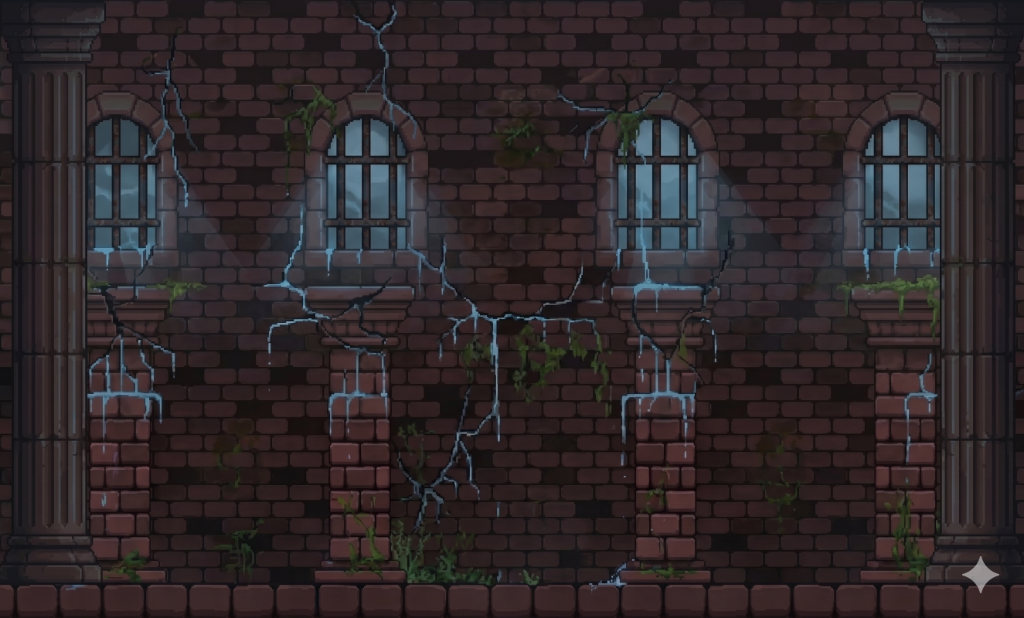
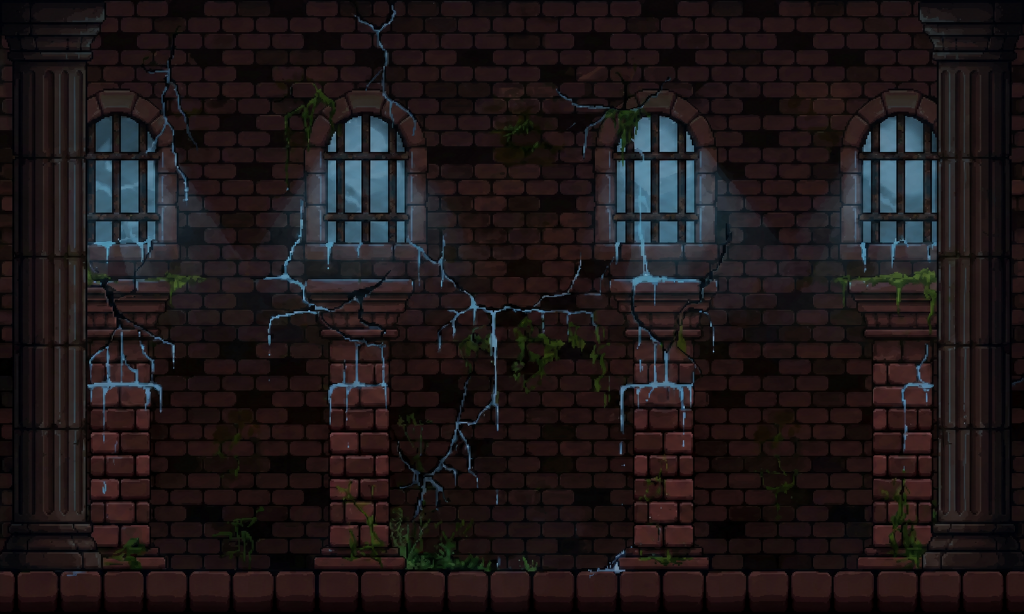
Se agrego movimiento por flechas y se agrando el escenario

diff --git a/src/componentes/GameCanvas.js b/src/componentes/GameCanvas.js
@@ -1,3 +1,4 @@
+// src/componentes/GameCanvas.js
 'use client';
 import { useEffect, useRef, forwardRef, useImperativeHandle } from 'react';
 
@@ -6,12 +7,14 @@ const GameCanvas = forwardRef(({ onGameOver, isPaused }, ref) => {
   
   // ESTADO FÍSICO INTEGRADO DEL JUEGO
   const gameState = useRef({
-    personaje: { x: 200, y: 400, vx: 1.0, vy: 0, size: 20, enSuelo: false },
+    // vx inicializado en 0 porque ahora depende de las flechas
+    personaje: { x: 380, y: 400, vx: 0, vy: 0, size: 20, enSuelo: false },
     plataformas: [],
     camaraY: 0,
     alturaMaxima: 0, 
     gravedad: 0.32,
     fuerzaSalto: -8.2,
+    velocidadCubo: 3.5, // Velocidad manual del cubo al presionar las flechas
     
     // CONTROL DEL DOBLE SALTO
     dobleSaltoDisponible: true,
@@ -23,7 +26,7 @@ const GameCanvas = forwardRef(({ onGameOver, isPaused }, ref) => {
     inmune: false 
   });
 
-  // DISPARADOR DE SALTO COMPATIBLE CON DOBLE SALTO
+  // DISPARADOR DE SALTO COMPATIBLE CON DOBLE SALTO (Solo Voz)
   useImperativeHandle(ref, () => ({
     triggerJump() {
       const state = gameState.current;
@@ -31,7 +34,6 @@ const GameCanvas = forwardRef(({ onGameOver, isPaused }, ref) => {
       
       if (isPaused) return;
 
-      // Primer salto desde una plataforma
       if (p.enSuelo) {
         p.vy = state.fuerzaSalto;
         p.enSuelo = false;
@@ -39,11 +41,10 @@ const GameCanvas = forwardRef(({ onGameOver, isPaused }, ref) => {
         state.puntoMasAltoAlcanzadoY = p.y;
         state.inmune = false;
       } 
-      // Segundo salto en el aire (Doble Salto)
       else if (state.dobleSaltoDisponible) {
         p.vy = state.fuerzaSalto * 0.82; 
         state.dobleSaltoDisponible = false; 
-        state.puntoMasAltoAlcanzadoY = p.y; // Resetea para evitar daño injusto
+        state.puntoMasAltoAlcanzadoY = p.y; 
       }
     }
   }));
@@ -56,6 +57,36 @@ const GameCanvas = forwardRef(({ onGameOver, isPaused }, ref) => {
 
     const imagenFondo = new Image();
     imagenFondo.src = '/imagenes/fondo-torre.png';
+
+    // DETECTORES DE TECLAS PARA MOVIMIENTO HORIZONTAL (FLECHAS)
+    const teclasPresionadas = {};
+    
+    const manejarKeyDown = (e) => {
+      if (isPaused) return;
+      teclasPresionadas[e.code] = true;
+      actualizarVelocidadHorizontal();
+    };
+
+    const manejarKeyUp = (e) => {
+      teclasPresionadas[e.code] = false;
+      actualizarVelocidadHorizontal();
+    };
+
+    const actualizarVelocidadHorizontal = () => {
+      const state = gameState.current;
+      const p = state.personaje;
+      
+      if (teclasPresionadas['ArrowLeft']) {
+        p.vx = -state.velocidadCubo;
+      } else if (teclasPresionadas['ArrowRight']) {
+        p.vx = state.velocidadCubo;
+      } else {
+        p.vx = 0; // Se detiene si no se presiona ninguna flecha
+      }
+    };
+
+    window.addEventListener('keydown', manejarKeyDown);
+    window.addEventListener('keyup', manejarKeyUp);
 
     const generarPlataformasIniciales = () => {
       const lista = [];
@@ -90,12 +121,13 @@ const GameCanvas = forwardRef(({ onGameOver, isPaused }, ref) => {
       }
 
       // ==========================================
-      // A. FISICAS GENERALES
+      // A. FISICAS GENERALES (MOVIMIENTO Y LÍMITES)
       // ==========================================
       p.x += p.vx;
-      if (p.x <= 0 || p.x + p.size >= canvas.width) {
-        p.vx *= -1; 
-      }
+      
+      // Bloqueo de bordes para que no se salga de los 760px del canvas
+      if (p.x < 0) p.x = 0;
+      if (p.x + p.size > canvas.width) p.x = canvas.width - p.size;
 
       p.vy += state.gravedad;
       p.y += p.vy;
@@ -105,7 +137,7 @@ const GameCanvas = forwardRef(({ onGameOver, isPaused }, ref) => {
       }
 
       // ==========================================
-      // B. COLISIONES Y DAÑO POR CAÍDA
+      // B. COLISIONES
       // ==========================================
       p.enSuelo = false;
 
@@ -134,22 +166,18 @@ const GameCanvas = forwardRef(({ onGameOver, isPaused }, ref) => {
       }
 
       // ==========================================
-      // C. CAMARA FLUIDA BIDIRECCIONAL (EFECTO CAÍDA)
+      // C. CAMARA FLUIDA
       // ==========================================
-const limiteSuperior = canvas.height * 0.4; 
+      const limiteSuperior = canvas.height * 0.4; 
       const limiteInferior = canvas.height * 0.7; 
 
       if (p.y < limiteSuperior) {
         const desfase = limiteSuperior - p.y;
         p.y = limiteSuperior;
         
-        // La cámara física se mueve hacia abajo para mostrar lo de arriba
         state.camaraY += desfase;
-        
-        // CORRECCIÓN: Registramos la altura acumulada total de la cámara física
         const alturaActualCalculada = state.camaraY;
         
-        // Solo aumentamos la altura máxima si superamos el punto más alto de esta partida
         if (alturaActualCalculada > state.alturaMaxima) {
           state.alturaMaxima = alturaActualCalculada;
         }
@@ -164,11 +192,8 @@ const limiteSuperior = canvas.height * 0.4;
         const desfase = p.y - limiteInferior;
         p.y = limiteInferior;
         
-        // Al caer, la cámara física retrocede hacia arriba
         state.camaraY -= desfase; 
         state.puntoMasAltoAlcanzadoY -= desfase;
-
-        // YA NO RESTAMOS de state.alturaMaxima aquí, así se queda fija en tu récord
 
         for (let plat of state.plataformas) {
           plat.y -= desfase;
@@ -178,14 +203,12 @@ const limiteSuperior = canvas.height * 0.4;
       // ==========================================
       // D. CONDICIÓN DE GAME OVER
       // ==========================================
-     if (state.vidas <= 0) {
+      if (state.vidas <= 0) {
         cancelAnimationFrame(loopId);
         onGameOver(Math.floor(state.alturaMaxima / 10)); 
         return;
       }
 
-      // CONTROL DE VACÍO REAL: Si el suelo base inicial (plataformas[0]) 
-      // sube más allá de la mitad de la pantalla y el personaje está abajo, es muerte instantánea.
       if (state.plataformas[0] && state.plataformas[0].y < p.y) {
         cancelAnimationFrame(loopId);
         onGameOver(Math.floor(state.alturaMaxima / 10)); 
@@ -193,7 +216,7 @@ const limiteSuperior = canvas.height * 0.4;
       }
 
       // ==========================================
-      // E. RE-RENDERIZADO GRÁFICO
+      // E. RENDERIZADO
       // ==========================================
       ctx.clearRect(0, 0, canvas.width, canvas.height);
 
@@ -211,11 +234,9 @@ const limiteSuperior = canvas.height * 0.4;
         }
       }
 
-      // El personaje parpadea en rojo si es inmune temporal por caída
       ctx.fillStyle = state.inmune && Math.floor(Date.now() / 100) % 2 === 0 ? '#e53e3e' : '#ecc94b'; 
       ctx.fillRect(p.x, p.y, p.size, p.size);
 
-      // MARCADORES DE RENDIMIENTO
       ctx.fillStyle = '#fff';
       ctx.font = 'bold 16px "Courier New", monospace';
       ctx.fillText(`ALTURA: ${Math.floor(state.alturaMaxima / 10)}m`, 20, 30);
@@ -231,15 +252,25 @@ const limiteSuperior = canvas.height * 0.4;
     imagenFondo.onload = () => { loopId = requestAnimationFrame(gameLoop); };
     imagenFondo.onerror = () => { loopId = requestAnimationFrame(gameLoop); };
 
-    return () => cancelAnimationFrame(loopId);
+    return () => {
+      cancelAnimationFrame(loopId);
+      window.removeEventListener('keydown', manejarKeyDown);
+      window.removeEventListener('keyup', manejarKeyUp);
+    };
   }, [onGameOver, isPaused]);
 
   return (
-    <canvas 
-      ref={canvasRef} 
-      width={400} 
+    <canvas
+      ref={canvasRef}
+      width={760} 
       height={600} 
-      style={{ border: '4px solid #2b6cb0', display: 'block', margin: '0 auto', borderRadius: '8px' }} 
+      style={{
+        display: 'block',
+        margin: '0 auto',
+        background: '#1a202c',
+        borderRadius: '8px',
+        border: '2px solid #4a5568'
+      }}
     />
   );
 });

diff --git a/src/app/page.tsx b/src/app/page.tsx
@@ -117,7 +117,7 @@ export default function Home() {
     localStorage.setItem('vt_lista_jugadores', JSON.stringify(nuevaListaFiltrada));
   };
 
-  // 6. GESTIÓN DE SALTOS Y FIN DE JUEGO
+  // 6. GESTIÓN DE SALTOS GENERAL
   const handleJumpTrigger = useCallback(() => {
     if (gameCanvasRef.current && !isPaused) {
       gameCanvasRef.current.triggerJump();
@@ -135,6 +135,7 @@ export default function Home() {
     setIsPaused(false);
   };
 
+  // Escucha la barra espaciadora SOLO si el método de control es 'teclado'
   useEffect(() => {
     const handleKeyDown = (event: KeyboardEvent) => {
       if (isPlaying && !isPaused && controlMethod === 'teclado' && event.code === 'Space') {
@@ -148,10 +149,18 @@ export default function Home() {
 
   return (
     <main style={{ 
-      maxWidth: '600px', margin: '20px auto', padding: '30px 20px', fontFamily: '"Courier New", Courier, monospace', 
+      maxWidth: '800px', 
+      margin: '20px auto', 
+      padding: '30px 20px', 
+      fontFamily: '"Courier New", Courier, monospace', 
       backgroundImage: 'linear-gradient(rgba(0, 0, 0, 0.75), rgba(0, 0, 0, 0.75)), url("/imagenes/fondo-torre.png")',
-      backgroundSize: 'cover', backgroundPosition: 'center', backgroundRepeat: 'no-repeat', color: '#fff',
-      borderRadius: '12px', boxShadow: '0px 0px 25px rgba(43, 108, 176, 0.4)', border: '3px solid #2b6cb0',
+      backgroundSize: 'cover', 
+      backgroundPosition: 'center', 
+      backgroundRepeat: 'no-repeat', 
+      color: '#fff',
+      borderRadius: '12px', 
+      boxShadow: '0px 0px 25px rgba(43, 108, 176, 0.4)', 
+      border: '3px solid #2b6cb0',
       position: 'relative'
     }}>
       
@@ -188,7 +197,7 @@ export default function Home() {
                 value={nuevoNombre}
                 onChange={(e) => setNuevoNombre(e.target.value)}
                 maxLength={12}
-                style={{ flex: 1, padding: '8px', borderRadius: '4px', border: '1px solid #4a5568', background: '#2d3748', color: '#fff', outline: 'none' }}
+                style={{ flex: 1, padding: '8px', borderRadius: '4px', border: '1px solid #4a5568', background: '#2d3748', color: '#fff', outline: '#3182ce' }}
               />
               <button type="submit" style={{ padding: '8px 15px', background: '#3182ce', color: 'white', border: 'none', borderRadius: '4px', cursor: 'pointer', fontWeight: 'bold' }}>
                 Anadir
@@ -214,18 +223,24 @@ export default function Home() {
             RECORD DE <strong>{jugadorActivo.toUpperCase()}</strong> ({controlMethod.toUpperCase()}): {highScore} METROS
           </div>
 
+          {/* BOTONES PARA ELEGIR EL MODO DE JUEGO */}
           <div style={{ display: 'flex', gap: '10px', background: '#2d3748', padding: '8px', borderRadius: '8px' }}>
             <button onClick={() => setControlMethod('voz')} style={{ padding: '8px 16px', borderRadius: '4px', border: 'none', cursor: 'pointer', fontWeight: 'bold', background: controlMethod === 'voz' ? '#ecc94b' : '#4a5568', color: controlMethod === 'voz' ? '#000' : '#fff' }}>Voz</button>
             <button onClick={() => setControlMethod('teclado')} style={{ padding: '8px 16px', borderRadius: '4px', border: 'none', cursor: 'pointer', fontWeight: 'bold', background: controlMethod === 'teclado' ? '#ecc94b' : '#4a5568', color: controlMethod === 'teclado' ? '#000' : '#fff' }}>Teclado</button>
           </div>
 
-          <button style={{ padding: '15px 40px', fontSize: '22px', fontWeight: 'bold', cursor: 'pointer', background: '#38a169', color: 'white', border: 'none', borderRadius: '6px', boxShadow: '0 5px #22543d' }} onClick={() => { setIsPlaying(true); setIsPaused(false); }}>INICIAR JUEGO!</button>
+          <button style={{ padding: '15px 40px', fontSize: '22px', fontWeight: 'bold', cursor: 'pointer', background: '#38a169', color: 'white', border: 'none', borderRadius: '6px', boxShadow: '0 5px #22543d' }} onClick={() => { setIsPlaying(true); setIsPaused(false); }}>¡INICIAR JUEGO!</button>
           <button style={{ padding: '10px 20px', fontSize: '16px', cursor: 'pointer', background: '#4a5568', color: 'white', border: 'none', borderRadius: '6px' }} onClick={() => setShowSettings(!showSettings)}>{showSettings ? 'Ocultar Ajustes' : 'Configurar Dispositivo'}</button>
 
           {showSettings && (
             <div style={{ width: '100%', background: '#1a202c', padding: '15px', borderRadius: '8px', border: '1px solid #4a5568' }}>
-              <p style={{ margin: '0 0 10px 0' }}>Modo de juego: <strong>{controlMethod === 'voz' ? 'Voz' : 'Teclado'}</strong></p>
-              <AudioCalibrator onJump={() => {}} />
+              <p style={{ margin: '0 0 10px 0' }}>Modo seleccionado: <strong>{controlMethod === 'voz' ? 'Voz' : 'Teclado'}</strong></p>
+              <p style={{ margin: '0', fontSize: '14px', color: '#a0aec0' }}>
+                {controlMethod === 'voz' 
+                  ? 'Controles: Moverse con Flechas Laterales | Saltar con Voz' 
+                  : 'Controles: Moverse con Flechas Laterales | Saltar con Espacio'}
+              </p>
+              {controlMethod === 'voz' && <AudioCalibrator onJump={() => {}} />}
             </div>
           )}
         </div>
@@ -260,12 +275,12 @@ export default function Home() {
             Explorador activo: <strong style={{ color: '#ecc94b' }}>{jugadorActivo}</strong>
           </div>
 
-          {/* BARRA DE CALIBRACIÓN FIJADA EN EL LATERAL NEGRO IZQUIERDO DE LA VENTANA */}
+          {/* BARRA DE CALIBRACIÓN SOLO APARECE EN LA ZONA NEGRA SI EL MODO ES 'VOZ' */}
           {controlMethod === 'voz' && !isPaused && (
             <div style={{ 
               position: 'fixed', 
               top: '180px', 
-              left: 'calc(50% - 490px)', 
+              left: 'calc(50% - 580px)', 
               zIndex: 100, 
               background: '#1a202c', 
               padding: '12px', 

diff --git a/src/componentes/AudioCalibrator.js b/src/componentes/AudioCalibrator.js
@@ -7,7 +7,6 @@ export default function AudioCalibrator({ onJump }) {
 
   const audioContextRef = useRef(null);
   const analyserRef = useRef(null);
-  // Aquí declaramos explícitamente streamRef para solucionar el error de la captura
   const streamRef = useRef(null); 
   const jorobaAntiBucle = useRef(false);
 